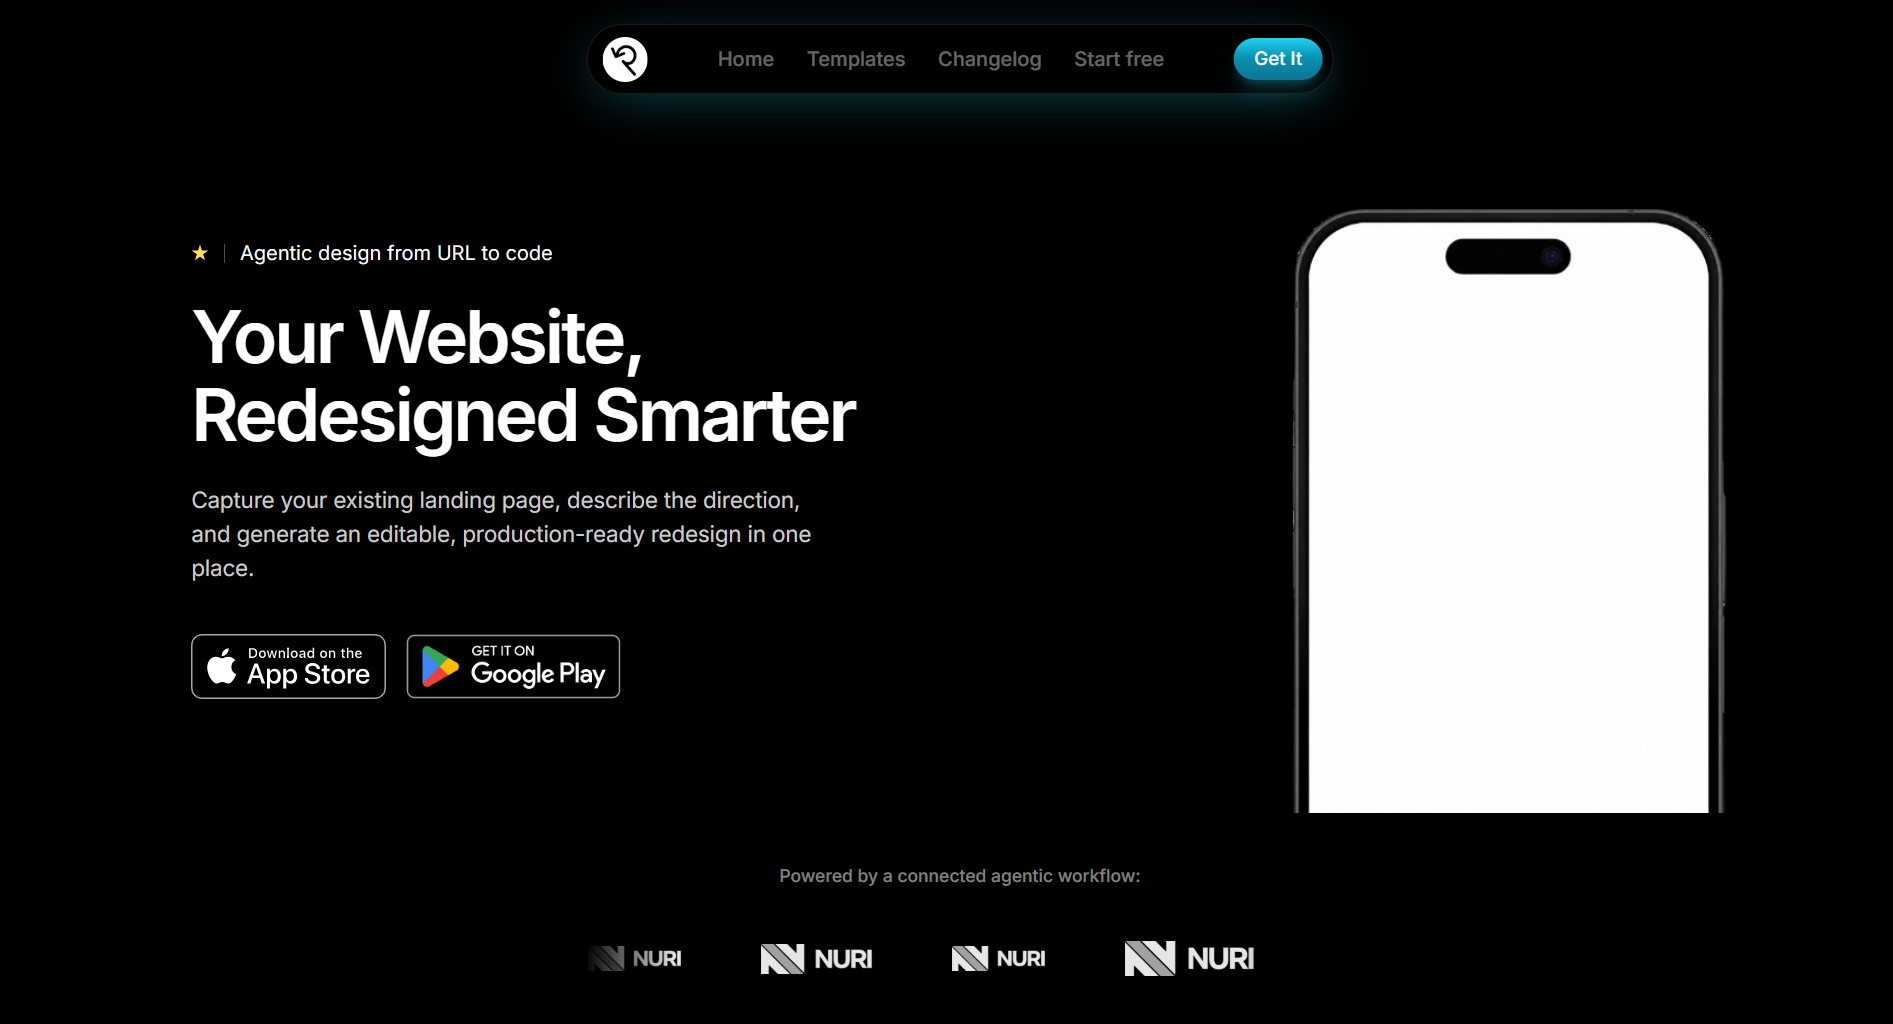
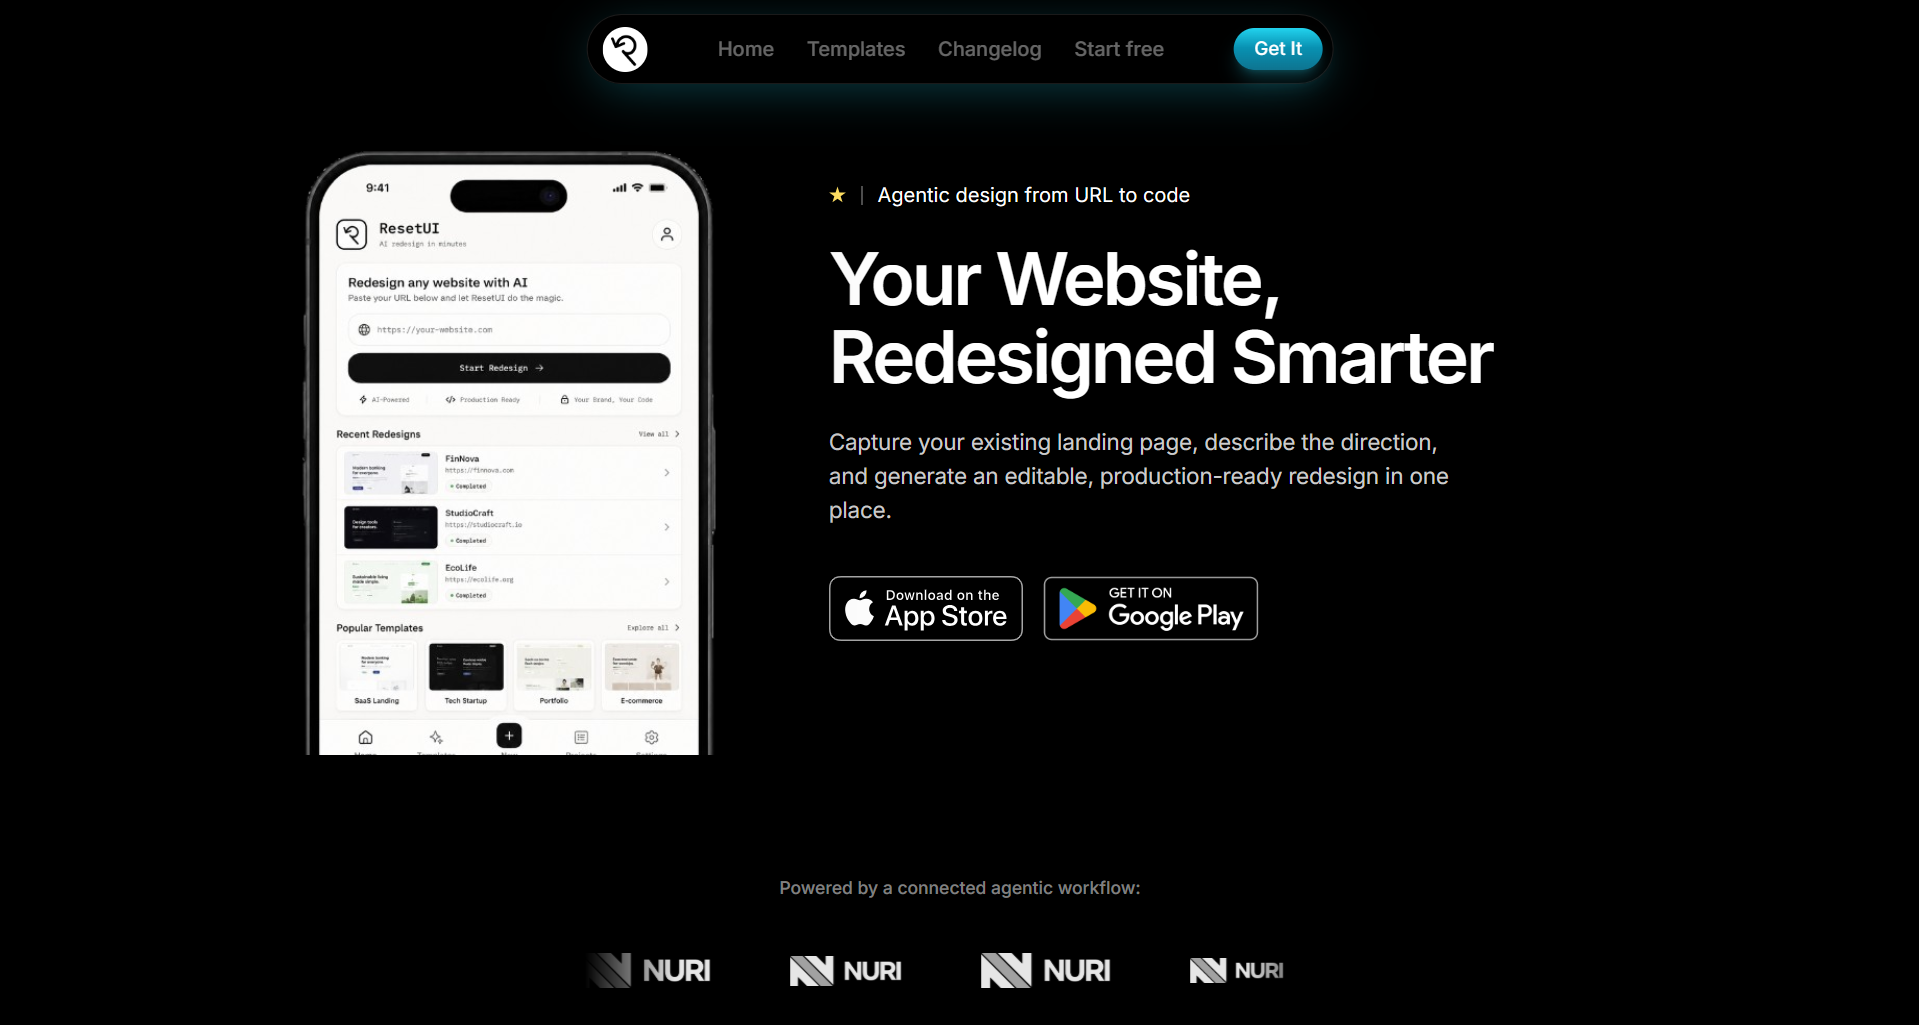
Premium-temp modified

diff --git a/templates/Premium/Eclipse-Dark.html b/templates/Premium/Eclipse-Dark.html
@@ -101,7 +101,7 @@
 <section class="bg-black">
   <div class="relative h-[670px] overflow-hidden bg-black">
     <div class="relative h-full px-[105px] flex items-center">
-      <div class="flex items-center justify-between w-full gap-10">
+      <div class="flex flex-row-reverse items-center justify-center w-full gap-20">
         <!-- Text -->
         <div class="relative top-[60px] w-[640px] flex flex-col gap-10">
           <div class="flex flex-col gap-6">
@@ -140,7 +140,7 @@
 </section>
 
 <!-- ============ LOGOS ============ -->
-<section class="px-[60px] py-10 flex flex-col gap-20">
+<section class="px-[60px] pt-24 pb-10 flex flex-col gap-20">
   <div class="flex flex-col items-center gap-[42px]">
     <p class="text-[14px] font-medium text-white/50">Powered by a connected agentic workflow:</p>
     <div class="marquee-mask w-[600px]">
